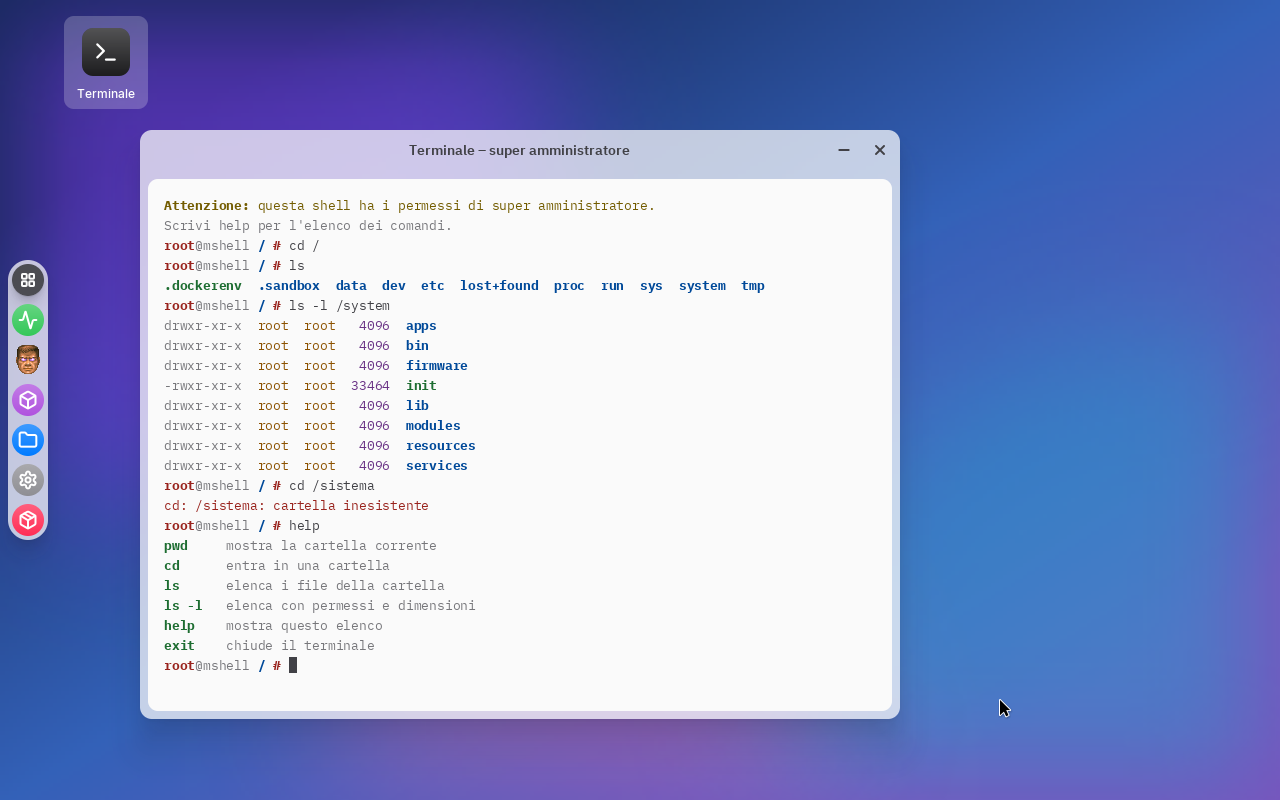
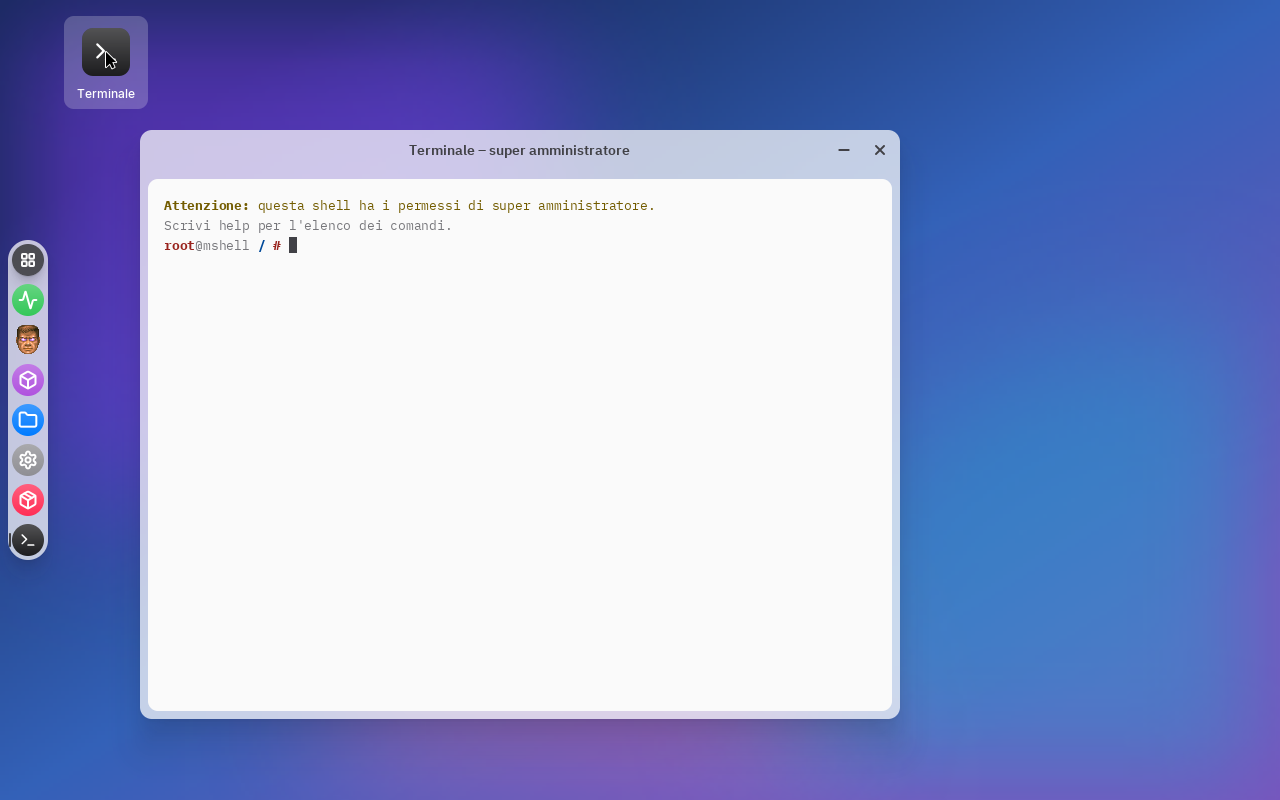
Terminale: diventa un'app (vassoio delle app), non nella userbar
Il Terminale passa da programma di sistema ad app in utente/applicazioni/Terminale, con
manifest e icone del disegno Figma (chiara e scura, 18/32/48). Nuova voce del manifesto
nella_barra (false: solo nel vassoio). L'icona sulla scrivania apre l'app tramite il
launcher. Prove aggiornate a 7 app del sistema e al vassoio di 3 righe.

diff --git a/utente/programmi/scrivania.c b/utente/programmi/scrivania.c
@@ -51,7 +51,8 @@ struct app {
     char cartella[MAX_NOME_FILE];   /* il nome della sua cartella: lo si chiede al launcher */
     char programma[MAX_PERCORSO_PROGRAMMA];   /* il percorso completo del programma */
     char nome[MAX_NOME_APP];        /* quello che si vede (code page 437, per i font) */
-    int di_sistema;                 /* sta in /system/apps: e' fissata nella userbar */
+    int di_sistema;                 /* sta in /system/apps: e' fissata nella userbar... */
+    int nella_barra;                /* ...se il manifesto non dice nella_barra = false */
     struct immagine png[2];         /* le icone caricate (al massimo due misure) */
 };
 
@@ -135,6 +136,7 @@ static void leggi_applicazioni_in(const char *cartelle) {
         aggiungi(cartella_app, v.nome, sizeof cartella_app);
         static struct manifesto m;
         if (manifesto_dell_app(cartella_app, &m) < 0) continue;
+        a->nella_barra = m.nella_barra;
         const char *gia[2];
         int quante = 0;
         voci_barra[i].immagine = carica_icona(a, cartella_app, png_per(&m, USERBAR_PNG_BARRA), gia, &quante);
@@ -146,9 +148,9 @@ static void leggi_applicazioni_in(const char *cartelle) {
 static void leggi_applicazioni(void) {
     for (int i = 0; i < QUANTE_CARTELLE_APPLICAZIONI; i++)
         leggi_applicazioni_in(cartelle_applicazioni[i]);
-    /* nella userbar quelle del sistema, nel loro ordine */
+    /* nella userbar quelle del sistema, nel loro ordine, tranne quelle con nella_barra = false */
     for (int i = 0; i < quante_app; i++)
-        if (app[i].di_sistema) {
+        if (app[i].di_sistema && app[i].nella_barra) {
             voci_barra[quante_fissate] = voci_barra[i];
             fissata[quante_fissate++] = i;
         }
@@ -375,13 +377,12 @@ static void prepara_sfondo(unsigned int *pixel, int l, int a) {
  * di un file di Files (elemento_file.h, con l'oggetto del suo tipo: oggetti.h). Sotto il
  * puntatore si vela appena, premere la sceglie (vetro chiaro), premere altrove sullo sfondo
  * la lascia; il DOPPIO CLIC la apre.
- * Oggi c'e' solo "Terminale", PROVVISORIA (STATO.md): apre il terminale con la shell di prova,
- * un programma normale che il launcher fa partire come la persona (APRI_PROGRAMMA). Le icone
- * sono un elenco perche' un giorno saranno quelle della cartella Scrivania della persona. */
+ * Oggi c'e' solo "Terminale": apre l'app Terminale (utente/applicazioni/Terminale) tramite il
+ * launcher, come il vassoio delle app (apri_applicazione). Le icone sono un elenco perche' un giorno saranno quelle della cartella Scrivania della persona. */
 struct icona_scrivania {
     const char *nome;
     const struct immagine *(*immagine)(void);   /* l'icona, nel tema in uso (risorse su disco) */
-    const char *programma;          /* cosa si apre con il doppio clic (in /system/bin) */
+    const char *app;                /* l'id dell'app che si apre con il doppio clic */
 };
 
 /* L'icona del Terminale (disegno Figma, "Icona dell'app"): una per tema, in /system/resources/icons/apps. */
@@ -391,7 +392,7 @@ static const struct immagine *icona_terminale(void) {
 }
 
 static const struct icona_scrivania icone[] = {
-    { "Terminale", icona_terminale, "/system/bin/terminale" },
+    { "Terminale", icona_terminale, "terminale" },
 };
 #define QUANTE_ICONE ((int)(sizeof icone / sizeof icone[0]))
 
@@ -456,7 +457,7 @@ static int notizia_sfondo(const struct notizia *n, int *icone_cambiate) {
     if (appena) {
         unsigned int adesso = tempo();
         if (icona_sopra >= 0 && icona_sopra == icona_scelta && (int)(adesso - clic_prima) < DOPPIO_CLIC) {
-            apri_programma(icone[icona_sopra].programma);
+            apri_applicazione(icone[icona_sopra].app);
             clic_prima = 0;
         } else {
             clic_prima = adesso;

diff --git a/test/prove/store.py b/test/prove/store.py
@@ -10,10 +10,10 @@ persona, build.sh):
   - "Apri": parte Contatore (al posto dello Store, che si chiude); la si chiude;
   - di nuovo il doppio clic su contatore.app: ora e' gia' installata, con la stessa versione
     ("store: gia' installata: contatore"); "Chiudi";
-  - lo Store dalla userbar: l'elenco, con Contatore tra le tue app (7 app, 1 tua); un clic su
+  - lo Store dalla userbar: l'elenco, con Contatore tra le tue app (8 app, 1 tua); un clic su
     Contatore mostra il dettaglio;
   - "Svuota dati" e la conferma: il launcher svuota i dati;
-  - "Togli app" e "Togli app e dati": il launcher la toglie, e l'elenco torna a 6 app.
+  - "Togli app" e "Togli app e dati": il launcher la toglie, e l'elenco torna a 7 app.
 Ogni passo si controlla nella seriale (lo Store e il launcher scrivono cosa fanno) e se ne fa
 una foto. I posti dei pulsanti sono presi dallo schermo vero (1280x800).
 """
@@ -80,13 +80,13 @@ def esegui(p):
     passo(lambda: doppio_clic(m, *PACCHETTO), "store: gia' installata: contatore", "gia_installata")
     passo(lambda: m.clic(*CHIUDI), None, "store_chiuso")
 
-    passo(lambda: s.clic_app(m, "Store"), "store: elenco: 7 app, 1 tue", "elenco")
+    passo(lambda: s.clic_app(m, "Store"), "store: elenco: 8 app, 1 tue", "elenco")
     passo(lambda: m.clic(*RIGA_CONTATORE), None, "dettaglio")
     passo(lambda: m.clic(*SVUOTA), None, "conferma_svuota")
     passo(lambda: m.clic(*CONFERMA_SVUOTA), "store: dati svuotati di contatore", "dati_svuotati")
     p.controlla("launcher: dati svuotati di contatore" in m.testo_seriale(), "il launcher non ha svuotato i dati")
     passo(lambda: m.clic(*TOGLI), None, "conferma_togli")
-    passo(lambda: m.clic(*CONFERMA_TOGLI), "store: elenco: 6 app, 0 tue", "tolta")
+    passo(lambda: m.clic(*CONFERMA_TOGLI), "store: elenco: 7 app, 0 tue", "tolta")
     p.controlla("launcher: tolta contatore" in m.testo_seriale(), "il launcher non dice 'tolta contatore'")
 
 

diff --git a/test/scrivania.py b/test/scrivania.py
@@ -19,8 +19,8 @@ basta.
 
     IL VASSOIO DELLE APP si apre con il pulsante App, a destra della barra (x = 52), centrato
     sul pulsante App: tutte le app installate, 3 per riga, voci di 80 x 68 a 88 l'una
-    dall'altra. Con le 6 app del sistema: 288 x 176, angolo in (52, 192); il centro del
-    tondo della prima voce in (108, 232).
+    dall'altra. Con le 7 app del sistema (il Terminale sta solo qui, non nella userbar):
+    3 righe, 288 x 252, angolo in (52, 154); il centro del tondo della prima voce in (108, 194).
 
     LE FINESTRE si aprono "a scala": la prima con l'angolo in (140, 130), ognuna delle
     successive 40 pixel piu' in basso e a destra (a destra della userbar).
@@ -41,12 +41,13 @@ APP_PULSANTE = (VOCE_X, BARRA_Y + 4 + 16)     # il pulsante App: (28, 280)
 APP = {nome: (VOCE_X, APP_PULSANTE[1] + 40 * (i + 1)) for i, nome in enumerate(FISSATE)}
 SEGNO_X = (BARRA_X + 1, BARRA_X + 4)   # dove sta il segno "aperta", nel margine a sinistra
 
-# Il vassoio con le 6 app del sistema (con Contatore installata ha una riga in piu', e
-# si apre piu' in alto: VASSOIO vale solo per le 6).
-VASSOIO_ANGOLO = (52, 192)
-VASSOIO = {nome: (52 + 16 + 40 + 88 * (i % 3), 192 + 16 + 24 + 76 * (i // 3))
-           for i, nome in enumerate(FISSATE)}
-VASSOIO_RETTANGOLO = (52, 192, 52 + 288, 192 + 176)
+# Il vassoio con le 7 app del sistema: quelle della userbar e il Terminale, in ordine
+# alfabetico (con Contatore installata le righe restano 3: VASSOIO vale per le 7 e le 8).
+NEL_VASSOIO = FISSATE + ["Terminale"]
+VASSOIO_ANGOLO = (52, 154)
+VASSOIO = {nome: (52 + 16 + 40 + 88 * (i % 3), 154 + 16 + 24 + 76 * (i // 3))
+           for i, nome in enumerate(NEL_VASSOIO)}
+VASSOIO_RETTANGOLO = (52, 154, 52 + 288, 154 + 252)
 
 # Le misure delle finestre (larghezza, altezza), senza l'ombra.
 MISURE = {"Attivita": (640, 460), "Contatore": (200, 146), "Esempio": (320, 220),

diff --git a/utente/libreria/descrizione.h b/utente/libreria/descrizione.h
@@ -14,6 +14,7 @@
  *     id, nome, versione, autore, descrizione       chi e' l'app
  *     processore, sistema_minimo                     per quale computer e sistema e' fatta
  *     programma                                      il file da far partire (di solito "code")
+ *     nella_barra                                    false: solo nel vassoio, non nella userbar
  *     permessi, deviazioni, funzioni                 elenchi di nomi (APPLICAZIONI.md, sezione 9)
  *     [icone.chiaro], [icone.scuro]                  svg = "...", png = { 18 = "...", 32 = "..." }
  *
@@ -79,6 +80,7 @@ struct icone_tema {
 #define VOCE_DEVIAZIONI      (1u << 9)
 #define VOCE_FUNZIONI        (1u << 10)
 #define VOCE_ICONE           (1u << 11)
+#define VOCE_NELLA_BARRA     (1u << 12)
 
 struct manifesto {
     char id[MAX_ID];
@@ -89,6 +91,7 @@ struct manifesto {
     char processore[MAX_PROCESSORE];
     int sistema_minimo;                      /* 0 se manca */
     char programma[MAX_PROGRAMMA];
+    int nella_barra;                         /* 1 se manca: l'app di sistema sta anche nella userbar */
     int quanti_permessi, quante_deviazioni, quante_funzioni;
     char permessi[MAX_VOCI][MAX_VOCE];
     char deviazioni[MAX_VOCI][MAX_VOCE];

diff --git a/utente/programmi/launcher.c b/utente/programmi/launcher.c
@@ -9,10 +9,10 @@
  *     come APPLICAZIONE (uid 1000), con l'argomento della richiesta se c'e'. E' per questo
  *     che il launcher e' del sistema (uid 0): solo il sistema puo' far partire un
  *     programma con un altro uid;
- *   - APRI_PROGRAMMA: un programma normale di /system/bin (non un'app: oggi il terminale),
+ *   - APRI_PROGRAMMA: un programma normale di /system/bin (non un'app; per ora nessuno lo usa),
  *     come la persona (uid 1000);
  *   - APRI_SHELL: la shell di prova come SISTEMA (uid 0), sul terminale finto che chi chiede
- *     gli passa (oggi il terminale della scrivania);
+ *     gli passa (oggi il Terminale);
  *   - APRI_FILE: un pacchetto .app non si apre mai da solo: si fa partire lo Store su di
  *     lui, se e' installato; se no si risponde che le app vanno installate prima;
  *   - RIMUOVI_PACCHETTO, SVUOTA_DATI: togliere un'app della persona, svuotare i dati di

diff --git a/utente/libreria/descrizione.c b/utente/libreria/descrizione.c
@@ -134,6 +134,13 @@ int manifesto_leggi(char *testo, struct manifesto *m, char *errore, int max_erro
     testo_in(t, "descrizione", m->descrizione, sizeof m->descrizione, VOCE_DESCRIZIONE, m);
     testo_in(t, "processore", m->processore, sizeof m->processore, VOCE_PROCESSORE, m);
     testo_in(t, "programma", m->programma, sizeof m->programma, VOCE_PROGRAMMA, m);
+    m->nella_barra = 1;
+    if (toml_key_exists(t, "nella_barra")) {
+        m->presenti |= VOCE_NELLA_BARRA;
+        toml_datum_t v = toml_bool_in(t, "nella_barra");
+        if (!v.ok) m->sbagliate |= VOCE_NELLA_BARRA;
+        else m->nella_barra = v.u.b ? 1 : 0;
+    }
     if (toml_key_exists(t, "sistema_minimo")) {
         m->presenti |= VOCE_SISTEMA_MINIMO;
         toml_datum_t v = toml_int_in(t, "sistema_minimo");

diff --git a/utente/applicazioni/Terminale/terminale.c b/utente/applicazioni/Terminale/terminale.c
@@ -3,8 +3,8 @@
  * Figma (pagina "App - Terminale"): barra del titolo, niente barra degli strumenti, e nel
  * corpo il pannello chiaro incassato (uikit/pannello.h) con il testo e la barra di scorrimento.
  *
- * Non e' un'app ma un programma normale (APPLICAZIONI.md, sezione 2), in /system/bin: lo fa
- * partire il launcher come la persona (uid 1000), quando lo chiede la scrivania. La shell
+ * E' un'app (utente/applicazioni/Terminale): la fa partire il launcher come la persona
+ * (uid 1000), dal vassoio delle app o dall'icona della scrivania. La shell
  * dentro, invece, la fa partire il launcher come SISTEMA (uid 0), dandole il nostro
  * terminale finto: PROVVISORIO, aperto a chiunque (launcher.h, APRI_SHELL).
  *

diff --git a/test/prove/pacchetti.py b/test/prove/pacchetti.py
@@ -3,7 +3,7 @@
 Si accende il disco delle prove dei pacchetti (disco_pacchetti.img, vedi build.sh): in
 /data/tests c'e' il programma pacchetti (utente/prove/pacchetti.c), che init fa partire come
 sistema. Lui, con contatore.app (sulla Scrivania della persona):
-  - chiede l'elenco delle app installate: le 6 del sistema (con lo Store), senza Contatore;
+  - chiede l'elenco delle app installate: le 7 del sistema (con lo Store e il Terminale), senza Contatore;
   - chiede di aprire il file leggimi.txt: il sistema non sa aprirlo (aprire contatore.app
     farebbe partire lo Store: lo prova la prova store);
   - chiede di aprire l'app contatore: non e' installata, quindi no;

diff --git a/utente/libreria/launcher.h b/utente/libreria/launcher.h
@@ -61,7 +61,7 @@
  *   APRI_PROGRAMMA      argomento = il percorso di un PROGRAMMA normale, non un'app (per
  *                       ora solo quelli di /system/bin: APPLICAZIONI.md, sezione 2). Il
  *                       launcher lo fa partire come la persona (uid 1000), senza argomenti.
- *                       Oggi lo usa la scrivania per il terminale (l'icona "Shell"). Un
+ *                       Oggi non lo usa nessuno (il Terminale e' un'app). Un
  *                       percorso fuori da /system/bin: LAUNCHER_NON_PERMESSO.
  *
  *   APRI_SHELL          allegato = il capo "schiavo" di un terminale finto (pty) di chi

diff --git a/utente/prove/pacchetti.c b/utente/prove/pacchetti.c
@@ -47,7 +47,7 @@ static int ha_contatore(void) {
 int main(void) {
     dormi(1000);    /* che i servizi siano partiti */
     passo("elenco", elenco_app_installate(&e), LAUNCHER_FATTO);
-    passo("app nell'elenco (6 del sistema, con lo Store)", e.quante, 6);
+    passo("app nell'elenco (7 del sistema, con lo Store e il Terminale)", e.quante, 7);
     passo("contatore nell'elenco prima", ha_contatore(), 0);
 
     /* aprire contatore.app farebbe partire lo Store (lo prova test/prove/store.py): qui si

diff --git a/STATO.md b/STATO.md
@@ -368,7 +368,7 @@ nei programmi: su ARM `printf` e `scanf` di musl lo richiedono (long double a 12
 - Terminale (più avanti): i comandi sono programmi, non app. L'app Terminale riceve un
   permesso esplicito "accedere ai tuoi file", come su macOS. Da dove prendere la shell e i
   comandi (toybox, busybox o fatti da noi) è ancora da decidere.
-- Terminale in finestra (icona "Shell" sulla scrivania, provvisorio): la shell dentro gira come
+- Terminale in finestra (app Terminale, anche con l'icona provvisoria sulla scrivania): la shell dentro gira come
   **sistema** (uid 0), non come la persona, e **chiunque può chiederla** al launcher
   (`APRI_SHELL`, che le passa il terminale finto). Decisione della persona, provvisoria:
   **terminale come sistema aperto a chiunque: da proteggere** ("poi lo proteggiamo"). I comandi
